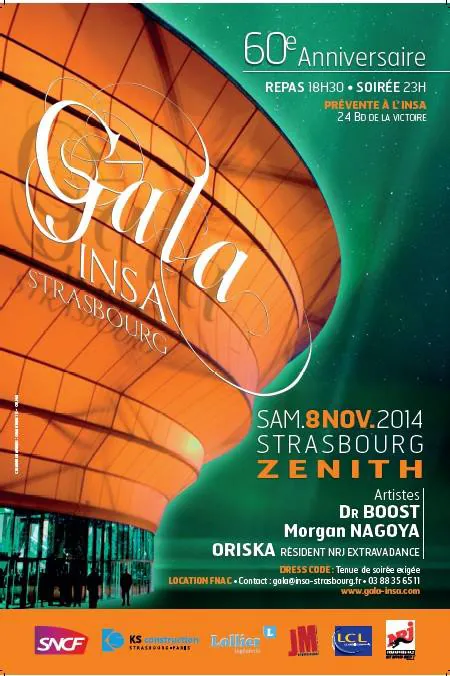
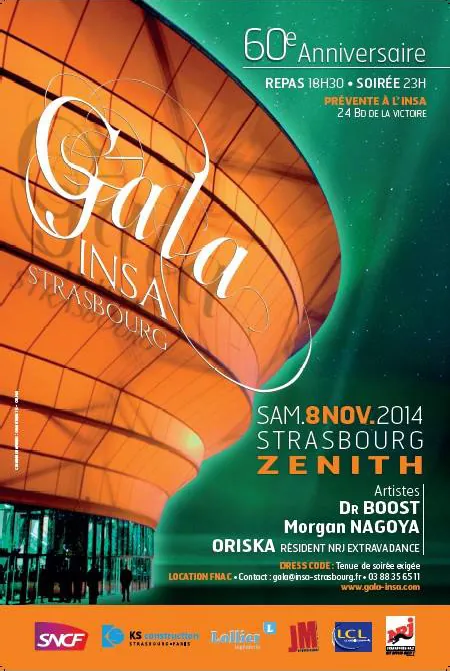
ajout archives affiches carrousel + header site

diff --git a/src/components/sections/gallery-carousel.tsx b/src/components/sections/gallery-carousel.tsx
@@ -1,7 +1,6 @@
 "use client";
 
 import { motion, useMotionValue, animate } from "motion/react";
-import Image from "next/image";
 import { useRef, useCallback, useEffect } from "react";
 
 interface GalleryImage {
@@ -14,143 +13,163 @@ interface GalleryImage {
 const GALLERY_IMAGES: GalleryImage[] = [
   {
     gradient: "from-gala-primary to-gala-gold",
-    alt: "Affiche Gala 2026 \u2014 72e \u00e9dition",
-    label: "Gala 2026 \u2014 72e \u00e9dition",
+    alt: "Affiche Gala 2026 — 72e édition",
+    label: "Gala 2026 — 72e édition",
   },
   {
     src: "/affiches/aff_2025.webp",
-    alt: "Affiche Gala 2025 \u2014 71e \u00e9dition",
-    label: "Gala 2025 \u2014 71e \u00e9dition",
+    alt: "Affiche Gala 2025 — 71e édition",
+    label: "Gala 2025 — 71e édition",
   },
   {
     src: "/affiches/aff_2024.webp",
-    alt: "Affiche Gala 2024 \u2014 70e \u00e9dition",
-    label: "Gala 2024 \u2014 70e \u00e9dition",
+    alt: "Affiche Gala 2024 — 70e édition",
+    label: "Gala 2024 — 70e édition",
   },
   {
     src: "/affiches/aff_2023.webp",
-    alt: "Affiche Gala 2023 \u2014 69e \u00e9dition",
-    label: "Gala 2023 \u2014 69e \u00e9dition",
+    alt: "Affiche Gala 2023 — 69e édition",
+    label: "Gala 2023 — 69e édition",
   },
   {
     src: "/affiches/aff_2022.webp",
-    alt: "Affiche Gala 2022 \u2014 68e \u00e9dition",
-    label: "Gala 2022 \u2014 68e \u00e9dition",
+    alt: "Affiche Gala 2022 — 68e édition",
+    label: "Gala 2022 — 68e édition",
   },
   {
     src: "/affiches/aff_2021.webp",
-    alt: "Affiche Gala 2021 \u2014 67e \u00e9dition",
-    label: "Gala 2021 \u2014 67e \u00e9dition",
+    alt: "Affiche Gala 2021 — 67e édition",
+    label: "Gala 2021 — 67e édition",
   },
   {
     src: "/affiches/aff_2020.webp",
-    alt: "Affiche Gala 2020 \u2014 66e \u00e9dition",
-    label: "Gala 2020 \u2014 66e \u00e9dition",
+    alt: "Affiche Gala 2020 — 66e édition",
+    label: "Gala 2020 — 66e édition",
   },
   {
     src: "/affiches/aff_2019.webp",
-    alt: "Affiche Gala 2019 \u2014 65e \u00e9dition",
-    label: "Gala 2019 \u2014 65e \u00e9dition",
+    alt: "Affiche Gala 2019 — 65e édition",
+    label: "Gala 2019 — 65e édition",
   },
   {
     src: "/affiches/aff_2018.webp",
-    alt: "Affiche Gala 2018 \u2014 64e \u00e9dition",
-    label: "Gala 2018 \u2014 64e \u00e9dition",
+    alt: "Affiche Gala 2018 — 64e édition",
+    label: "Gala 2018 — 64e édition",
   },
   {
     src: "/affiches/aff_2017.webp",
-    alt: "Affiche Gala 2017 \u2014 63e \u00e9dition",
-    label: "Gala 2017 \u2014 63e \u00e9dition",
+    alt: "Affiche Gala 2017 — 63e édition",
+    label: "Gala 2017 — 63e édition",
   },
   {
     src: "/affiches/aff_2016.webp",
-    alt: "Affiche Gala 2016 \u2014 62e \u00e9dition",
-    label: "Gala 2016 \u2014 62e \u00e9dition",
+    alt: "Affiche Gala 2016 — 62e édition",
+    label: "Gala 2016 — 62e édition",
   },
   {
     src: "/affiches/aff_2015.webp",
-    alt: "Affiche Gala 2015 \u2014 61e \u00e9dition",
-    label: "Gala 2015 \u2014 61e \u00e9dition",
+    alt: "Affiche Gala 2015 — 61e édition",
+    label: "Gala 2015 — 61e édition",
   },
   {
     src: "/affiches/aff_2014.webp",
-    alt: "Affiche Gala 2014 \u2014 60e \u00e9dition",
-    label: "Gala 2014 \u2014 60e \u00e9dition",
+    alt: "Affiche Gala 2014 — 60e édition",
+    label: "Gala 2014 — 60e édition",
   },
   {
     src: "/affiches/aff_2013.webp",
-    alt: "Affiche Gala 2013 \u2014 59e \u00e9dition",
-    label: "Gala 2013 \u2014 59e \u00e9dition",
+    alt: "Affiche Gala 2013 — 59e édition",
+    label: "Gala 2013 — 59e édition",
   },
   {
     src: "/affiches/aff_2012.webp",
-    alt: "Affiche Gala 2012 \u2014 58e \u00e9dition",
-    label: "Gala 2012 \u2014 58e \u00e9dition",
+    alt: "Affiche Gala 2012 — 58e édition",
+    label: "Gala 2012 — 58e édition",
   },
   {
     src: "/affiches/aff_2011.webp",
-    alt: "Affiche Gala 2011 \u2014 57e \u00e9dition",
-    label: "Gala 2011 \u2014 57e \u00e9dition",
+    alt: "Affiche Gala 2011 — 57e édition",
+    label: "Gala 2011 — 57e édition",
   },
   {
     src: "/affiches/aff_2010.webp",
-    alt: "Affiche Gala 2010 \u2014 56e \u00e9dition",
-    label: "Gala 2010 \u2014 56e \u00e9dition",
+    alt: "Affiche Gala 2010 — 56e édition",
+    label: "Gala 2010 — 56e édition",
   },
   {
     src: "/affiches/aff_2009.webp",
-    alt: "Affiche Gala 2009 \u2014 55e \u00e9dition",
-    label: "Gala 2009 \u2014 55e \u00e9dition",
+    alt: "Affiche Gala 2009 — 55e édition",
+    label: "Gala 2009 — 55e édition",
   },
   {
     src: "/affiches/aff_2008.webp",
-    alt: "Affiche Gala 2008 \u2014 54e \u00e9dition",
-    label: "Gala 2008 \u2014 54e \u00e9dition",
+    alt: "Affiche Gala 2008 — 54e édition",
+    label: "Gala 2008 — 54e édition",
   },
   {
     src: "/affiches/aff_2007.webp",
-    alt: "Affiche Gala 2007 \u2014 53e \u00e9dition",
-    label: "Gala 2007 \u2014 53e \u00e9dition",
+    alt: "Affiche Gala 2007 — 53e édition",
+    label: "Gala 2007 — 53e édition",
   },
   {
     src: "/affiches/aff_2006.webp",
-    alt: "Affiche Gala 2006 \u2014 52e \u00e9dition",
-    label: "Gala 2006 \u2014 52e \u00e9dition",
+    alt: "Affiche Gala 2006 — 52e édition",
+    label: "Gala 2006 — 52e édition",
   },
   {
     src: "/affiches/aff_2005.webp",
-    alt: "Affiche Gala 2005 \u2014 51e \u00e9dition",
-    label: "Gala 2005 \u2014 51e \u00e9dition",
+    alt: "Affiche Gala 2005 — 51e édition",
+    label: "Gala 2005 — 51e édition",
   },
   {
     src: "/affiches/aff_2004.webp",
-    alt: "Affiche Gala 2004 \u2014 50e \u00e9dition",
-    label: "Gala 2004 \u2014 50e \u00e9dition",
+    alt: "Affiche Gala 2004 — 50e édition",
+    label: "Gala 2004 — 50e édition",
   },
   {
     src: "/affiches/aff_2003.webp",
-    alt: "Affiche Gala 2003 \u2014 49e \u00e9dition",
-    label: "Gala 2003 \u2014 49e \u00e9dition",
+    alt: "Affiche Gala 2003 — 49e édition",
+    label: "Gala 2003 — 49e édition",
   },
   {
     src: "/affiches/aff_2002.webp",
-    alt: "Affiche Gala 2002 \u2014 48e \u00e9dition",
-    label: "Gala 2002 \u2014 48e \u00e9dition",
+    alt: "Affiche Gala 2002 — 48e édition",
+    label: "Gala 2002 — 48e édition",
   },
   {
     src: "/affiches/aff_2001.webp",
-    alt: "Affiche Gala 2001 \u2014 47e \u00e9dition",
-    label: "Gala 2001 \u2014 47e \u00e9dition",
+    alt: "Affiche Gala 2001 — 47e édition",
+    label: "Gala 2001 — 47e édition",
   },
   {
     src: "/affiches/aff_2000.webp",
-    alt: "Affiche Gala 2000 \u2014 46e \u00e9dition",
-    label: "Gala 2000 \u2014 46e \u00e9dition",
+    alt: "Affiche Gala 2000 — 46e édition",
+    label: "Gala 2000 — 46e édition",
   },
   {
     src: "/affiches/aff_1999.webp",
-    alt: "Affiche Gala 1999 \u2014 45e \u00e9dition",
-    label: "Gala 1999 \u2014 45e \u00e9dition",
+    alt: "Affiche Gala 1999 — 45e édition",
+    label: "Gala 1999 — 45e édition",
+  },
+  {
+    src: "/affiches/aff_1994.webp",
+    alt: "Affiche Gala 1994 — 40e édition",
+    label: "Gala 1994 — 40e édition",
+  },
+  {
+    src: "/affiches/aff_1992.webp",
+    alt: "Affiche Gala 1992 — 38e édition",
+    label: "Gala 1992 — 38e édition",
+  },
+  {
+    src: "/affiches/aff_1991.webp",
+    alt: "Affiche Gala 1991 — 37e édition",
+    label: "Gala 1991 — 37e édition",
+  },
+  {
+    src: "/affiches/aff_1990.webp",
+    alt: "Affiche Gala 1990 — 36e édition",
+    label: "Gala 1990 — 36e édition",
   },
 ];
 
@@ -210,7 +229,7 @@ export function GalleryCarousel() {
           viewport={{ once: true, margin: "-100px" }}
           transition={{ duration: 0.6, ease: [0.76, 0, 0.24, 1] }}
         >
-          Galerie des &eacute;ditions pr&eacute;c&eacute;dentes
+          Galerie des éditions précédentes
         </motion.h2>
         <motion.p
           className="mt-2 text-muted-foreground"
@@ -219,7 +238,7 @@ export function GalleryCarousel() {
           viewport={{ once: true, margin: "-100px" }}
           transition={{ duration: 0.6, delay: 0.1 }}
         >
-          Plongez dans l&rsquo;ambiance des ann&eacute;es pass&eacute;es
+          Plongez dans l&rsquo;ambiance des années passées
         </motion.p>
       </div>
 
@@ -241,18 +260,16 @@ export function GalleryCarousel() {
           {[...GALLERY_IMAGES, ...GALLERY_IMAGES].map((image, index) => (
             <div
               key={`${image.label}-${index}`}
-              className="relative w-40 flex-shrink-0 overflow-hidden aspect-[3/4] md:w-[420px]"
+              className="relative h-64 flex-shrink-0 overflow-hidden md:h-[420px]"
               style={{
                 boxShadow: "var(--shadow-md)",
               }}
             >
               {image.src ? (
-                <Image
+                <img
                   src={image.src}
                   alt={image.alt}
-                  fill
-                  className="object-cover pointer-events-none"
-                  sizes="(max-width: 768px) 160px, 420px"
+                  className="h-full w-auto object-contain pointer-events-none"
                 />
               ) : (
                 <div

diff --git a/src/app/layout.tsx b/src/app/layout.tsx
@@ -58,16 +58,16 @@ export async function generateMetadata(): Promise<Metadata> {
 
   return {
     title: {
-      default: `${title} ${edition}e Édition — ${date}`,
-      template: `%s | ${title} ${edition}e`,
+      default: `Gala INSA Strasbourg 2026`,
+      template: `%s | Gala INSA Strasbourg 2026`,
     },
     description,
     openGraph: {
-      title: `${title} ${edition}e Édition — ${date}`,
+      title: `Gala INSA Strasbourg 2026`,
       description,
       type: "website",
       locale: "fr_FR",
-      siteName: `${title} ${edition}e Édition`,
+      siteName: `Gala INSA Strasbourg 2026`,
     },
     robots: {
       index: true,
